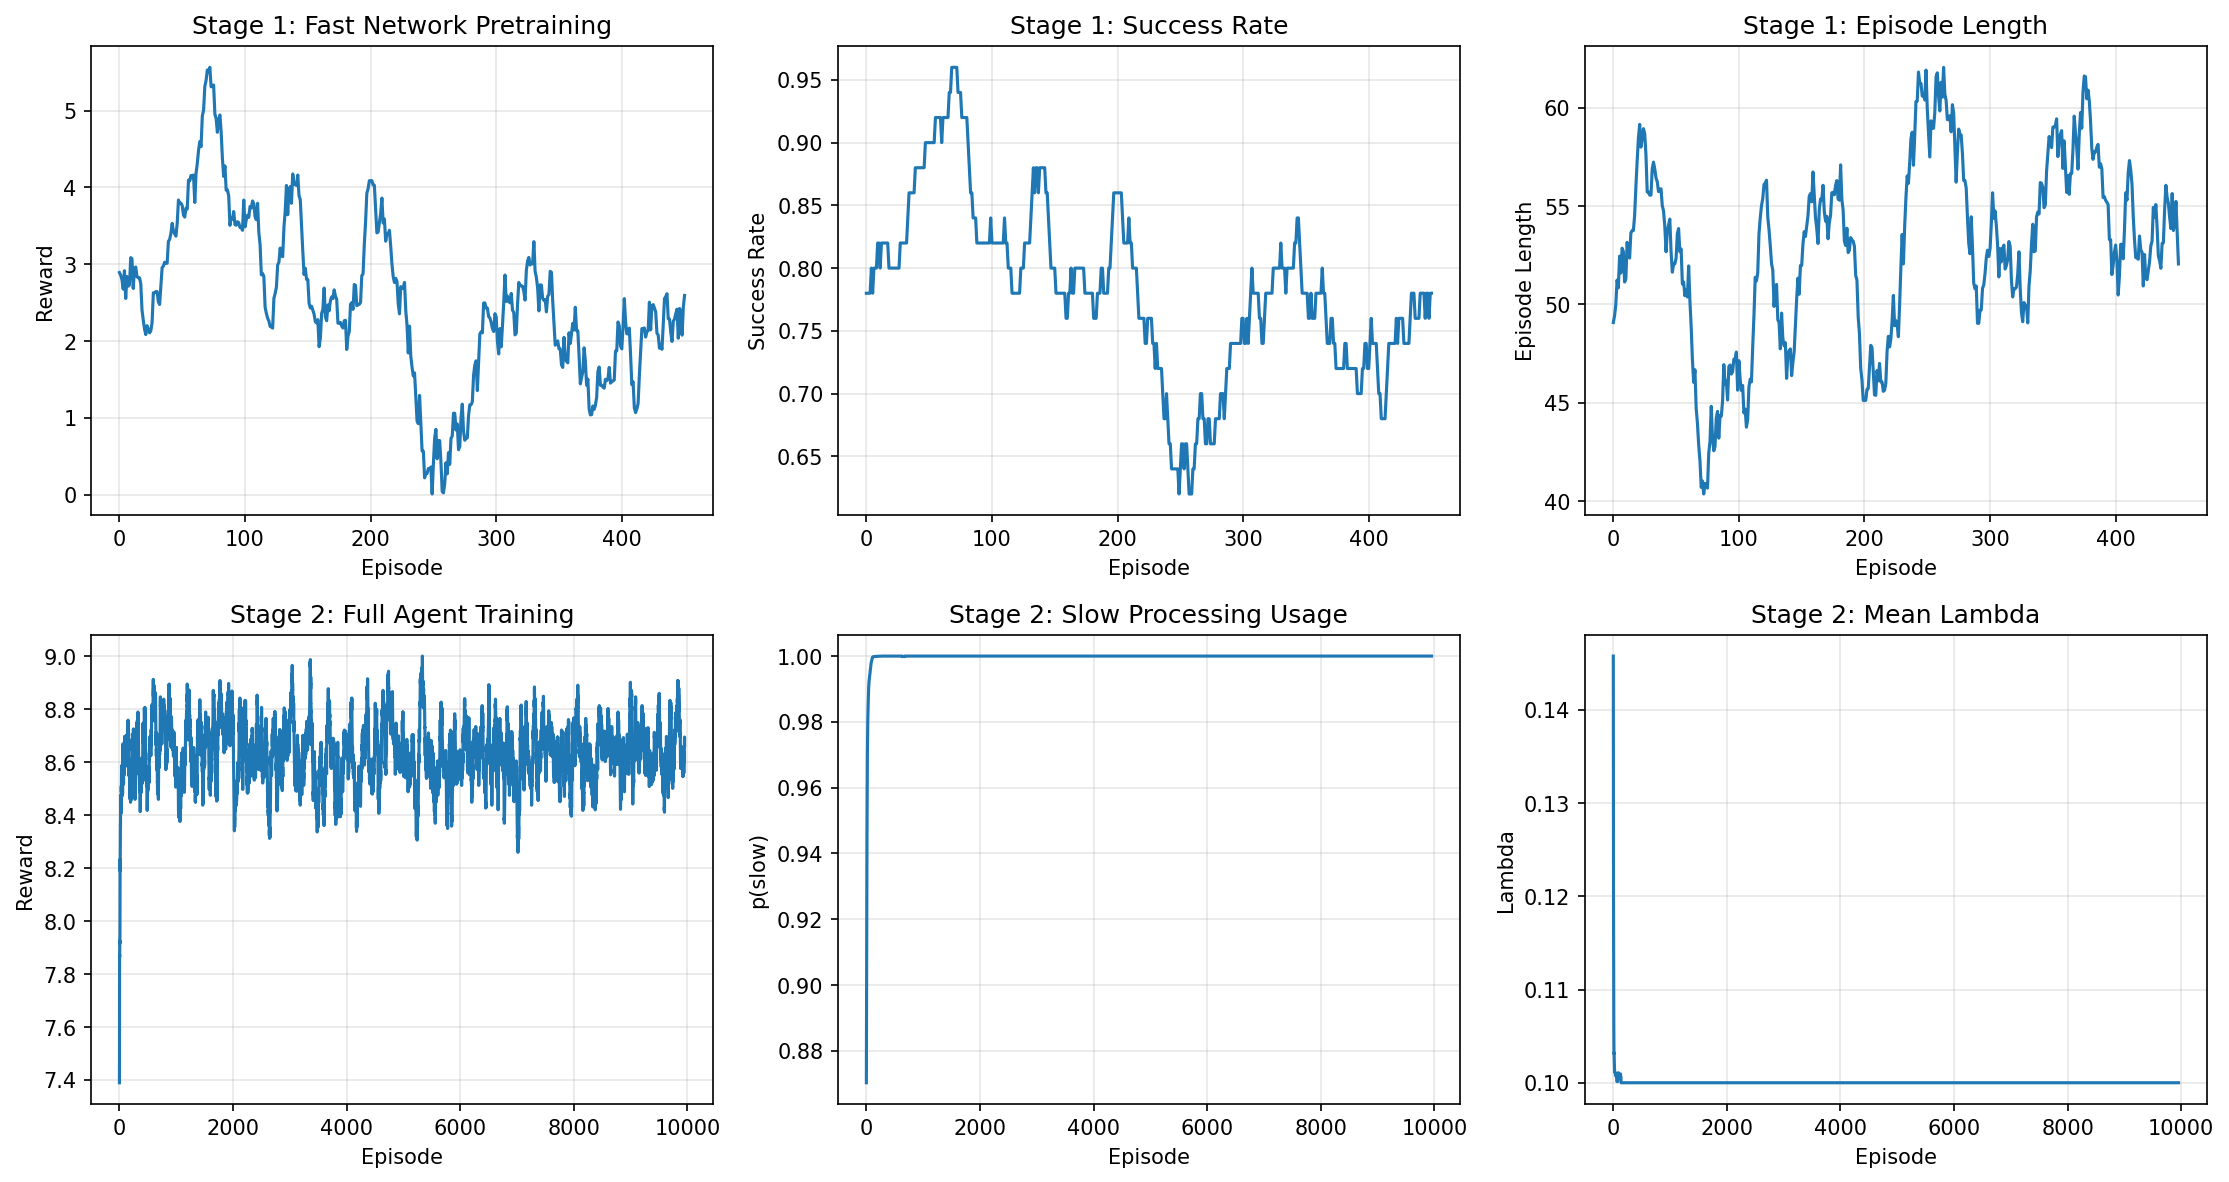
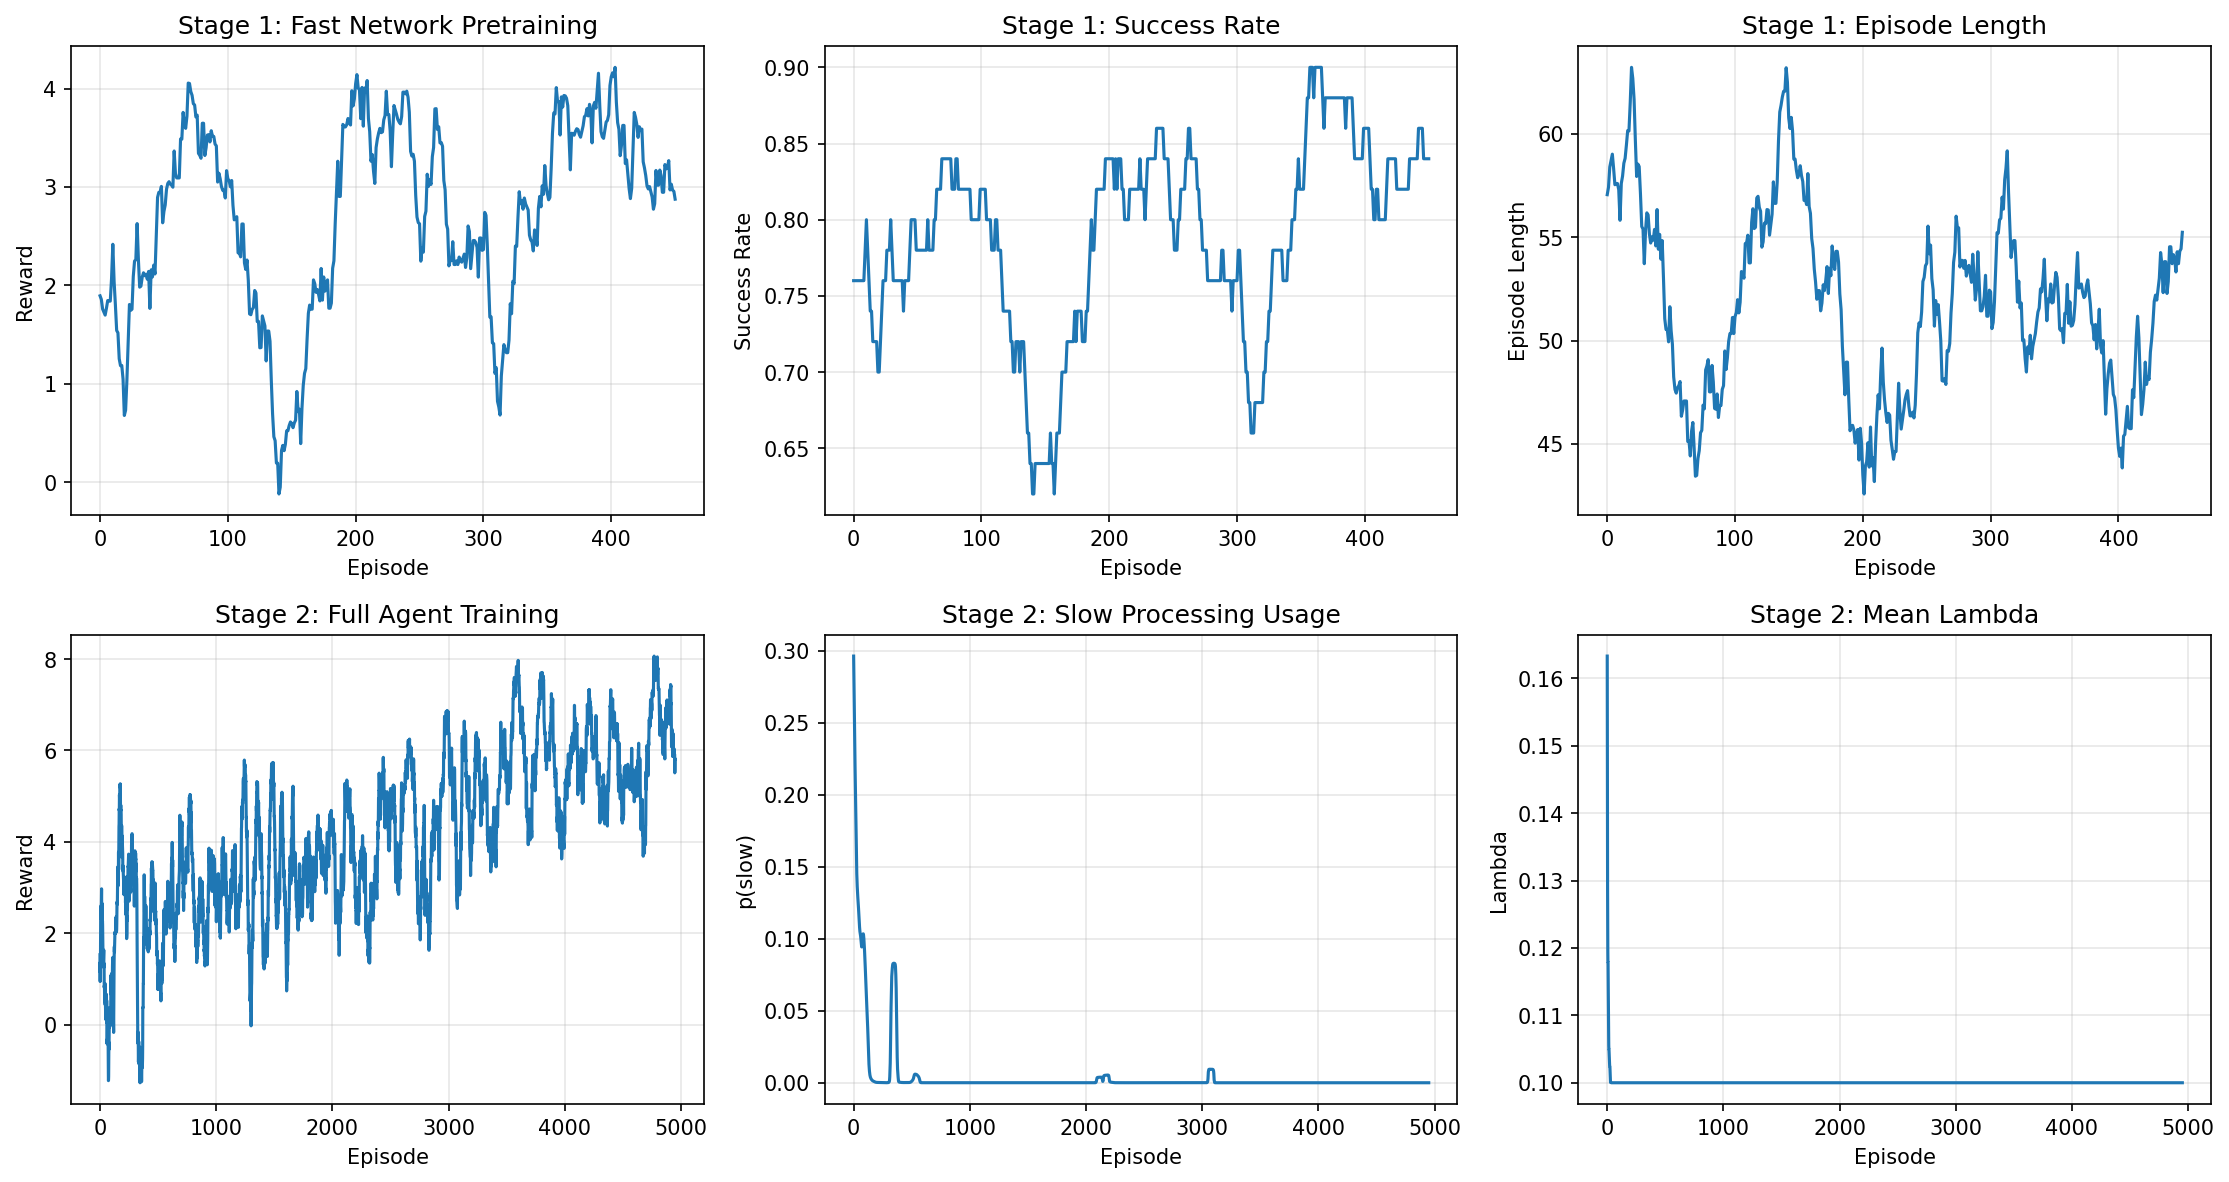
training looking better

diff --git a/train.py b/train.py
@@ -558,7 +558,7 @@ if __name__ == "__main__":
     from corridors import MazeGraph
 
     maze = MazeGraph(length=8, width=8, corridor=0.5, seed=60)
-    env = MazeEnvironment(length=8, width=8, corridor=0.5, seed=60, control_cost=0.01)
+    env = MazeEnvironment(length=8, width=8, corridor=0.5, seed=60, control_cost=0.5)
 
     print(f"Environment: {env.num_nodes} nodes, {env.num_actions} actions")
 
@@ -568,7 +568,7 @@ if __name__ == "__main__":
         num_nodes=env.num_nodes,
         num_actions=env.num_actions,
         maze_graph=maze.get_graph(),
-        control_cost=0.01
+        control_cost=0.5
     )
 
     print(f"Agent created")
@@ -584,7 +584,7 @@ if __name__ == "__main__":
 
     # Stage 2: Train with slow and controller
     stage2_trainer = Stage2Trainer(env, agent, lr_slow=3e-4, lr_controller=1e-3)
-    stage2_metrics = stage2_trainer.train(num_episodes=10000, log_interval=50)
+    stage2_metrics = stage2_trainer.train(num_episodes=5000, log_interval=50)
 
     # Save final agent
     agent.save('checkpoints/agent_final.pt')

diff --git a/lambda_modulator.py b/lambda_modulator.py
@@ -11,7 +11,7 @@ import torch
 
 
 class LambdaModulator:
-    def __init__(self, beta=2.0, w_long=0.8, w_short=0.2, lambda_min=0.1, lambda_max=0.99):
+    def __init__(self, beta=2.0, w_long=0.8, w_short=0.2, lambda_min=0.05, lambda_max=0.99):
         """
         Initialize lambda modulator.
 
@@ -78,10 +78,10 @@ class LambdaModulator:
                 p_slow = torch.tensor(p_slow, dtype=torch.float32)
 
             # Compute control demand (weighted combination)
-            d_t = self.w_long * conflict_map_value + self.w_short * p_slow
+            d_t = self.w_long * torch.sigmoid(conflict_map_value) + self.w_short * p_slow
 
             # sigmoid to ensure d_t is in [0, 1]
-            d_t = torch.sigmoid(d_t)
+            # d_t = torch.sigmoid(d_t)
 
             # Apply superlinear power-law mapping
             lambda_val = (1.0 - d_t) ** self.beta
